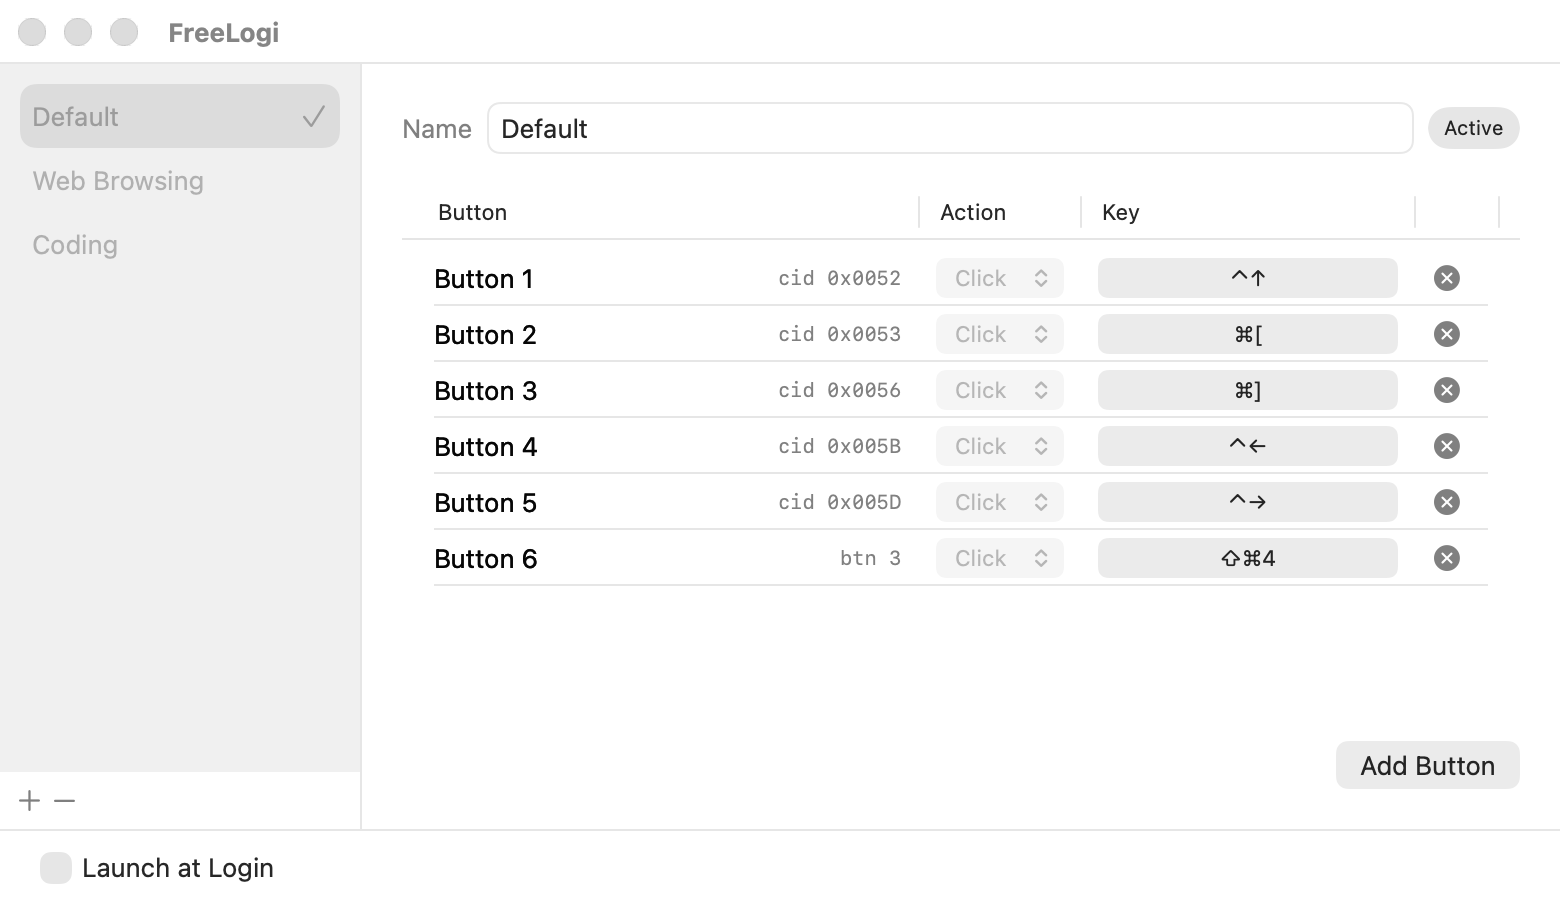
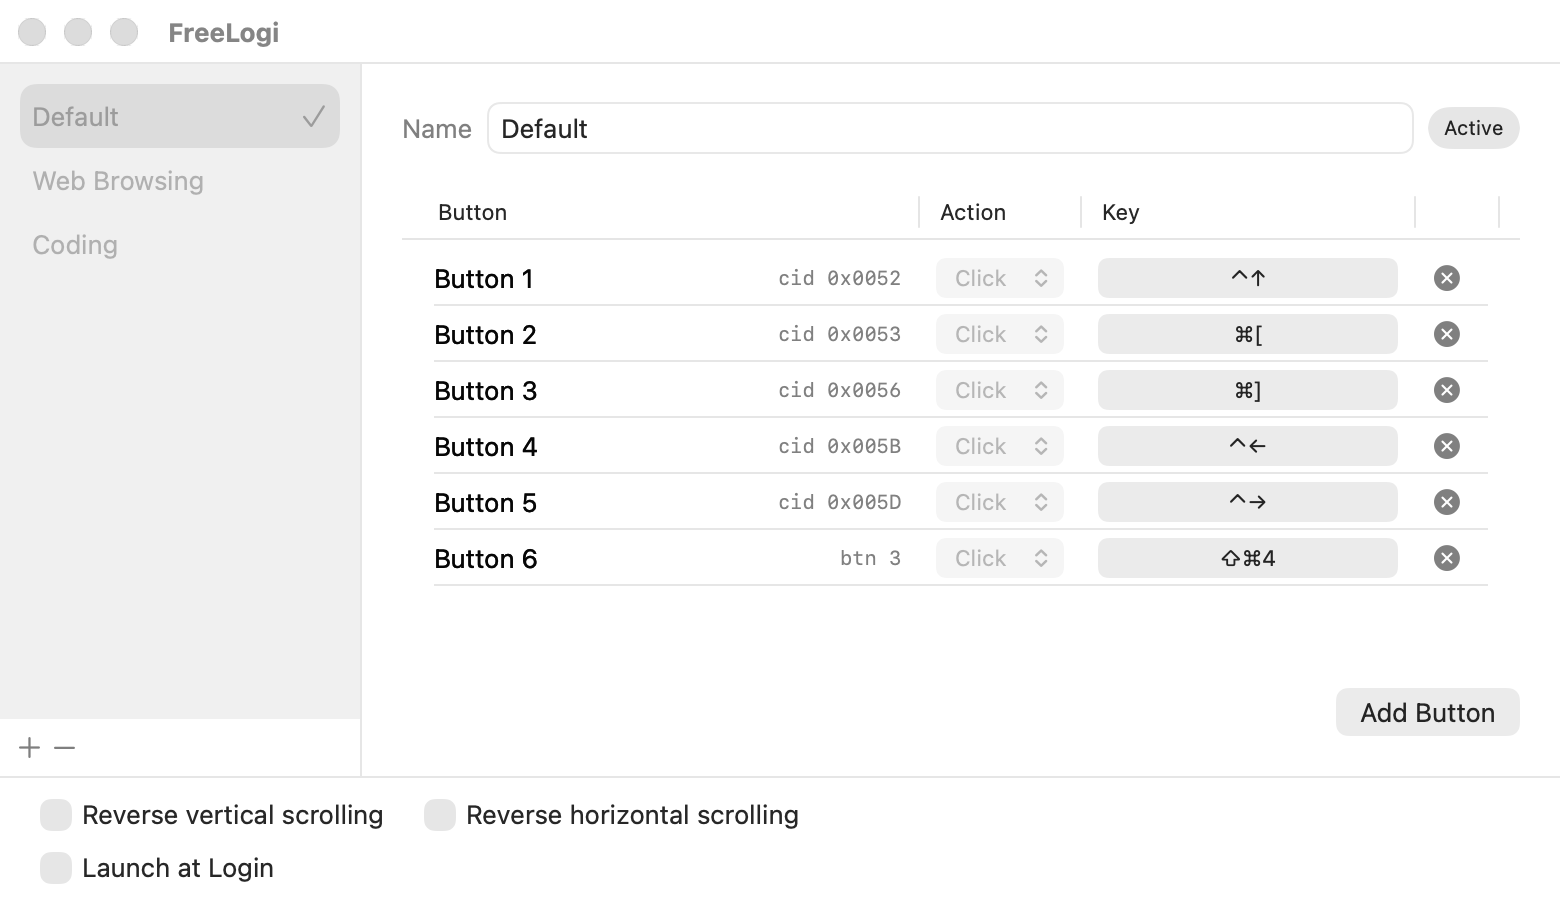
docs(49): README 스크롤 반전

Changed region(s): [[0.0, 0.8673, 0.5231, 0.9292], [0.8615, 0.8363, 0.9538, 0.8673], [0.8615, 0.7743, 0.9538, 0.8053]]

diff --git a/README.md b/README.md
@@ -72,6 +72,10 @@ For a button that supports HID++ raw movement, choose a direction in the `Action
 
 To map another direction, add the same button again and choose an unused direction. The direction selector is disabled for buttons without raw movement support.
 
+### Reverse scrolling
+
+Enable `Reverse vertical scrolling` or `Reverse horizontal scrolling` at the bottom of the settings window. Only mouse wheel scrolling is reversed; trackpad scrolling stays as macOS sets it. The setting applies to every profile.
+
 ### Launch at login
 
 Enable `Launch at Login` at the bottom of the settings window.
